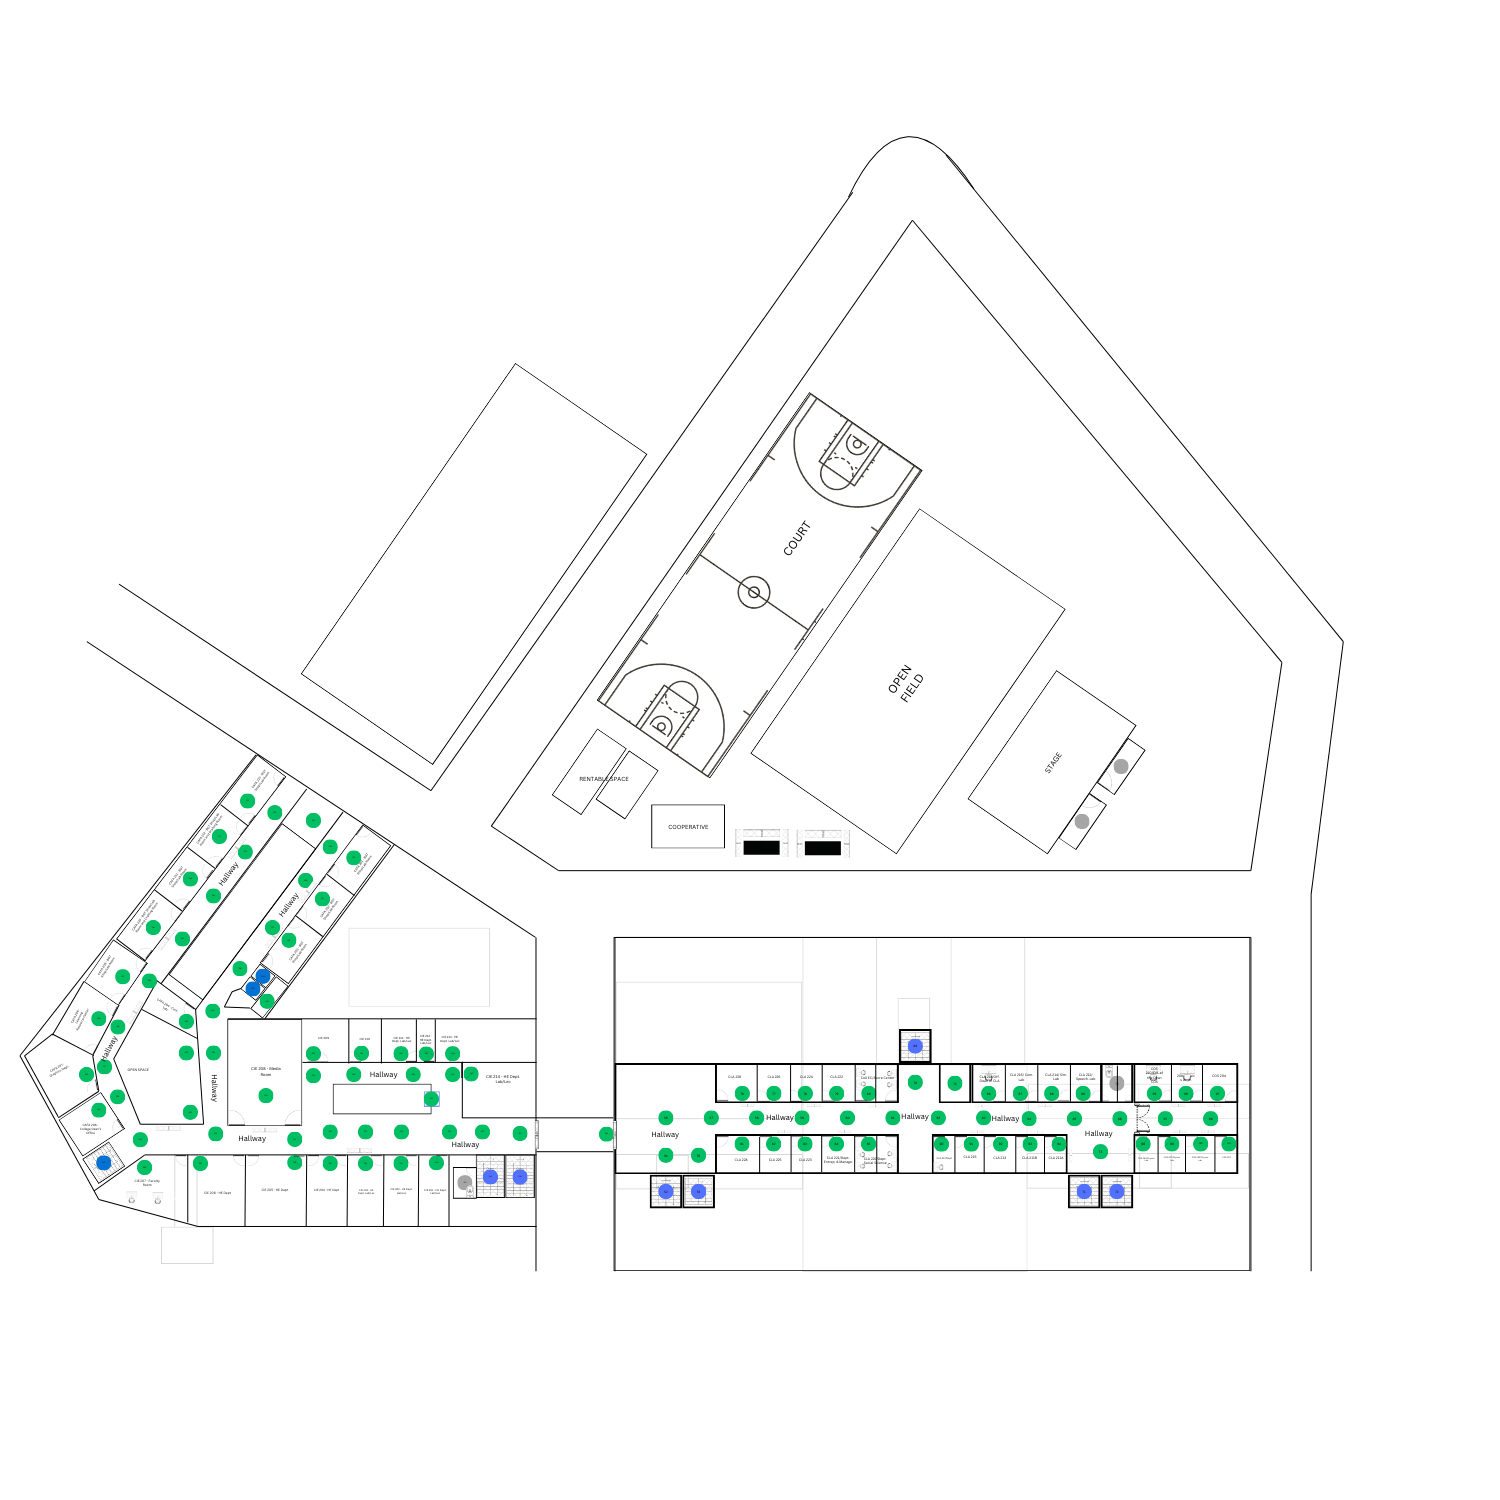
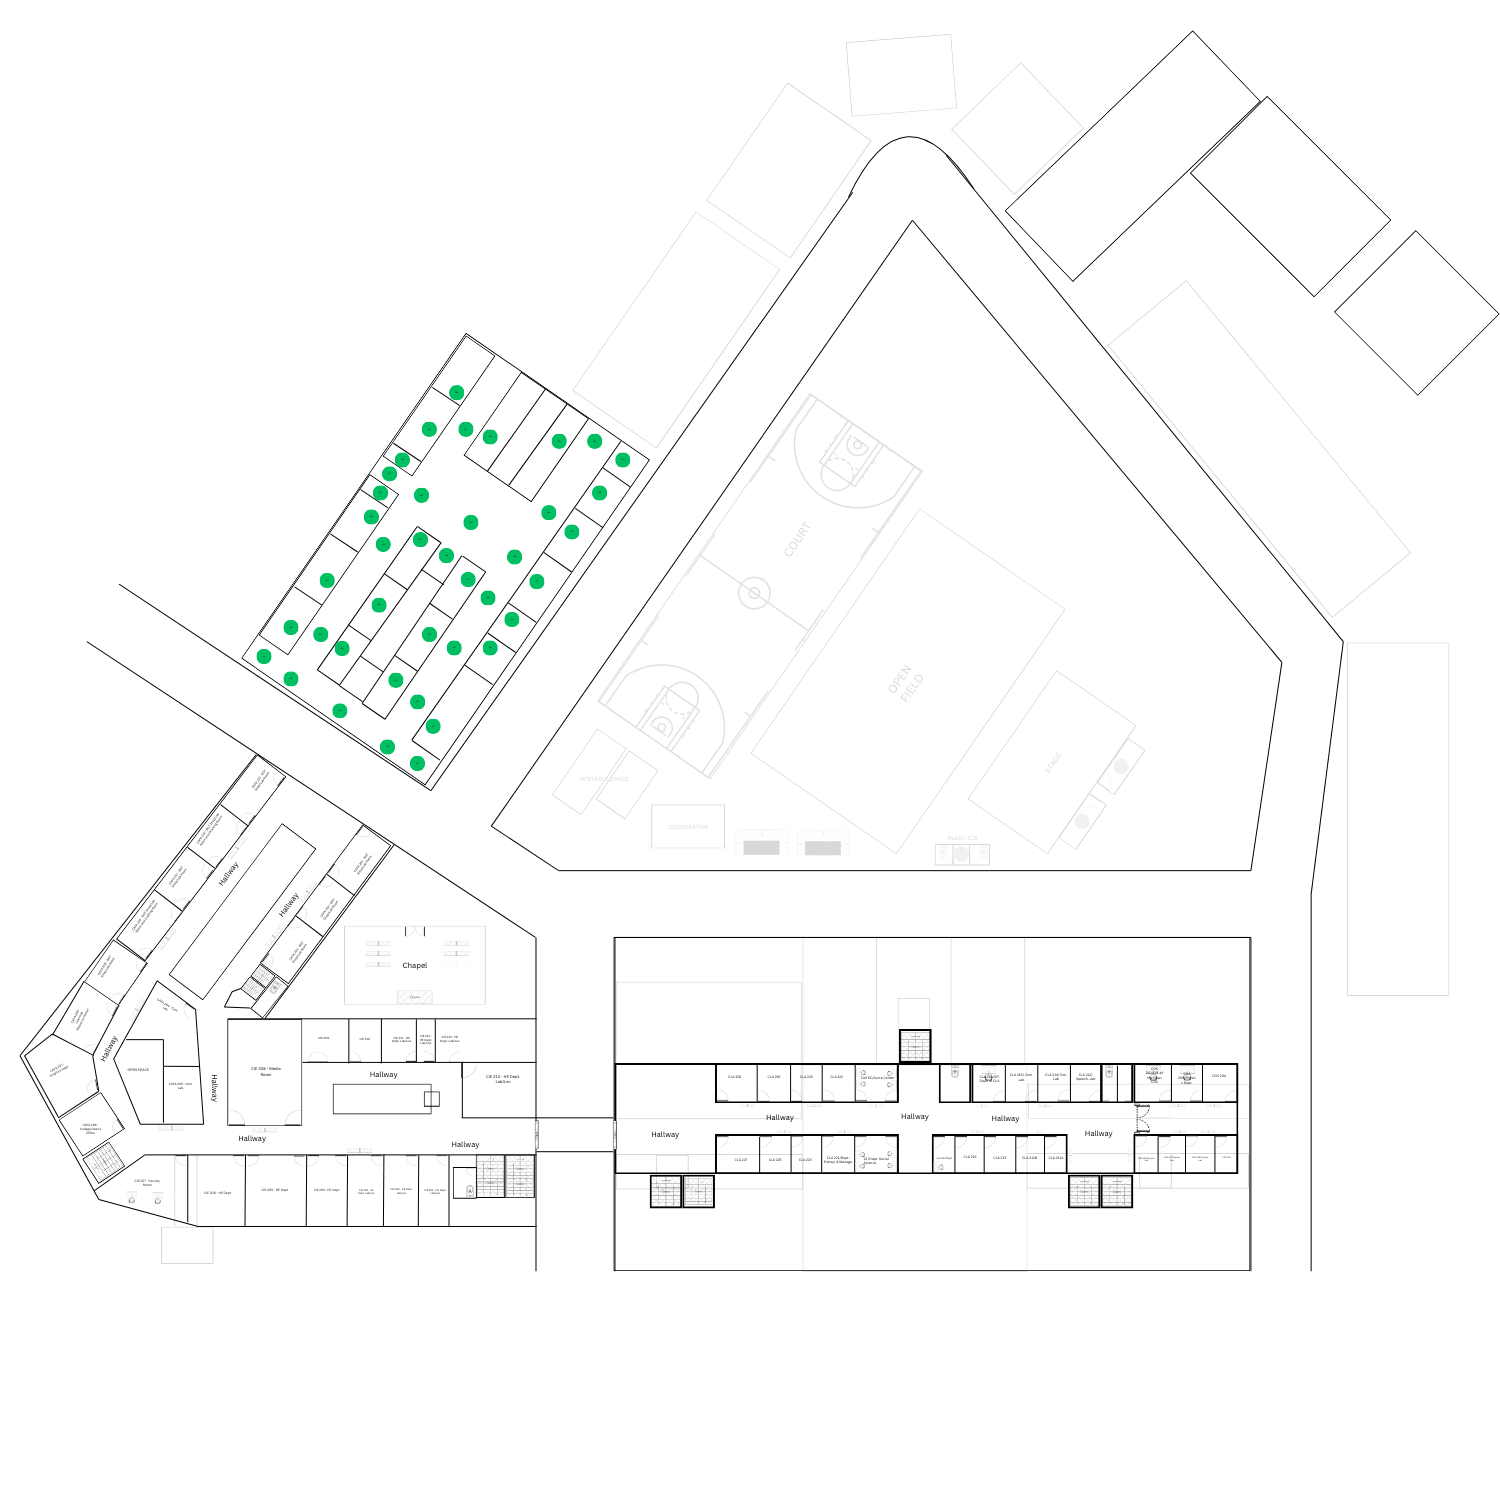
update done cit 1st floor plus ground floor all tup

diff --git a/frontend/components/NodeConnections.tsx b/frontend/components/NodeConnections.tsx
@@ -111,6 +111,7 @@ const nodeConnections: ConnectionsByFloor = {
       { start: { x: 895, y: 516, label: '36' }, end: { x: 895, y: 528, label: '50' }, active: false },
       { start: { x: 895, y: 516, label: '36' }, end: { x: 895, y: 504, label: '49' }, active: false },
       { start: { x: 895, y: 516, label: '36' }, end: { x: 910, y: 516, label: '37' }, active: false },
+      { start: { x: 910, y: 516, label: '37' }, end: { x: 926, y: 515, label: '378' }, active: false },
       { start: { x: 910, y: 516, label: '37' }, end: { x: 905, y: 504, label: '51' }, active: false },
       { start: { x: 579, y: 463, label: '179' }, end: { x: 584, y: 468, label: '184' }, active: false },
       { start: { x: 586, y: 454, label: '178' }, end: { x: 595, y: 456, label: '207' }, active: false },
@@ -170,7 +171,88 @@ const nodeConnections: ConnectionsByFloor = {
       { start: { x: 658, y: 517, label: '149' }, end: { x: 651, y: 517, label: '150' }, active: false },
       { start: { x: 669, y: 517, label: '148' }, end: { x: 663, y: 508, label: '187' }, active: false },
       { start: { x: 669, y: 517, label: '148' }, end: { x: 667, y: 531, label: '180' }, active: false },
-      { start: { x: 669, y: 517, label: '148' }, end: { x: 657, y: 517, label: '149' }, active: false },    
+      { start: { x: 669, y: 517, label: '148' }, end: { x: 657, y: 517, label: '149' }, active: false },
+
+      { start: { x: 698, y: 284, label: '414' }, end: { x: 686, y: 284, label: '431'  }, active: false },
+      { start: { x: 682, y: 308, label: '413' }, end: { x: 692, y: 308, label: '439'  }, active: false },
+      { start: { x: 682, y: 308, label: '413' }, end: { x: 688, y: 316, label: '438'  }, active: false },
+      { start: { x: 682, y: 308, label: '413' }, end: { x: 698, y: 284, label: '414'  }, active: false },
+      { start: { x: 639, y: 371, label: '412' }, end: { x: 649, y: 371, label: '434'  }, active: false },
+      { start: { x: 639, y: 371, label: '412' }, end: { x: 644, y: 379, label: '433'  }, active: false },
+      { start: { x: 639, y: 371, label: '412' }, end: { x: 630, y: 364, label: '429'  }, active: false },
+      { start: { x: 651, y: 353, label: '411' }, end: { x: 662, y: 353, label: '436'  }, active: false },
+      { start: { x: 651, y: 353, label: '411' }, end: { x: 656, y: 363, label: '435'  }, active: false },
+      { start: { x: 651, y: 353, label: '411' }, end: { x: 639, y: 371, label: '412'  }, active: false },
+      { start: { x: 662, y: 336, label: '410' }, end: { x: 672, y: 340, label: '437'  }, active: false },
+      { start: { x: 662, y: 336, label: '410' }, end: { x: 656, y: 330, label: '430'  }, active: false },
+      { start: { x: 662, y: 336, label: '410' }, end: { x: 651, y: 353, label: '411'  }, active: false },
+      { start: { x: 670, y: 323, label: '409' }, end: { x: 682, y: 308, label: '413'  }, active: false },
+      { start: { x: 670, y: 323, label: '409' }, end: { x: 662, y: 336, label: '410'  }, active: false },
+      { start: { x: 670, y: 323, label: '409' }, end: { x: 688, y: 337, label: '387'  }, active: false },
+      { start: { x: 656, y: 311, label: '408' }, end: { x: 649, y: 322, label: '428'  }, active: false },
+      { start: { x: 656, y: 311, label: '408' }, end: { x: 639, y: 319, label: '426'  }, active: false },
+      { start: { x: 656, y: 311, label: '408' }, end: { x: 670, y: 323, label: '409'  }, active: false },
+      { start: { x: 654, y: 280, label: '407' }, end: { x: 664, y: 280, label: '427'  }, active: false },
+      { start: { x: 654, y: 280, label: '407' }, end: { x: 652, y: 268, label: '423'  }, active: false },
+      { start: { x: 654, y: 280, label: '407' }, end: { x: 643, y: 280, label: '422'  }, active: false },
+      { start: { x: 640, y: 302, label: '406' }, end: { x: 630, y: 295, label: '440'  }, active: false },
+      { start: { x: 640, y: 302, label: '406' }, end: { x: 633, y: 290, label: '421'  }, active: false },
+      { start: { x: 640, y: 302, label: '406' }, end: { x: 627, y: 302, label: '420'  }, active: false },
+      { start: { x: 640, y: 302, label: '406' }, end: { x: 656, y: 311, label: '408'  }, active: false },
+      { start: { x: 640, y: 302, label: '406' }, end: { x: 654, y: 280, label: '407'  }, active: false },
+      { start: { x: 626, y: 319, label: '405' }, end: { x: 623, y: 310, label: '419'  }, active: false },
+      { start: { x: 626, y: 319, label: '405' }, end: { x: 617, y: 319, label: '418'  }, active: false },
+      { start: { x: 626, y: 319, label: '405' }, end: { x: 640, y: 302, label: '406'  }, active: false },
+      { start: { x: 606, y: 349, label: '404' }, end: { x: 615, y: 353, label: '425'  }, active: false },
+      { start: { x: 606, y: 349, label: '404' }, end: { x: 608, y: 330, label: '417'  }, active: false },
+      { start: { x: 606, y: 349, label: '404' }, end: { x: 595, y: 348, label: '416'  }, active: false },
+      { start: { x: 606, y: 349, label: '404' }, end: { x: 626, y: 319, label: '405'  }, active: false },
+      { start: { x: 596, y: 364, label: '403' }, end: { x: 605, y: 364, label: '424'  }, active: false },
+      { start: { x: 596, y: 364, label: '403' }, end: { x: 587, y: 356, label: '415'  }, active: false },
+      { start: { x: 596, y: 364, label: '403' }, end: { x: 606, y: 349, label: '404'  }, active: false },
+
+      { start: { x: 956, y: 255, label: '400' }, end: { x: 946, y:265, label: '399'  }, active: false },
+      { start: { x: 895, y: 215, label: '397' }, end: { x: 946, y:265, label: '399'  }, active: false },
+      { start: { x: 895, y: 215, label: '397' }, end: { x: 902, y:206, label: '398'  }, active: false },
+      { start: { x: 853, y: 250, label: '396' }, end: { x: 933, y:350, label: '402'  }, active: false },
+      { start: { x: 853, y: 250, label: '396' }, end: { x: 887, y:266, label: '401'  }, active: false },
+      { start: { x: 853, y: 250, label: '396' }, end: { x: 895, y:215, label: '397'  }, active: false },
+      { start: { x: 804, y: 198, label: '394' }, end: { x: 853, y:250, label: '396'  }, active: false },
+      { start: { x: 804, y: 198, label: '394' }, end: { x: 826, y:192, label: '395'  }, active: false },
+      { start: { x: 804, y: 198, label: '394' }, end: { x: 782, y:200, label: '393'  }, active: false },
+      { start: { x: 758, y: 255, label: '391' }, end: { x: 804, y:198, label: '394'  }, active: false },
+      { start: { x: 758, y: 255, label: '391' }, end: { x: 747, y:250, label: '392'  }, active: false },
+      { start: { x: 799, y: 366, label: '390' }, end: { x: 750, y:333, label: '389'  }, active: false },
+      { start: { x: 720, y: 313, label: '388' }, end: { x: 758, y:255, label: '391'  }, active: false },
+      { start: { x: 720, y: 313, label: '388' }, end: { x: 750, y:333, label: '389'  }, active: false },
+      { start: { x: 688, y: 337, label: '387' }, end: { x: 670, y:323, label: '409'  }, active: false },
+      { start: { x: 688, y: 337, label: '387' }, end: { x: 720, y:313, label: '388'  }, active: false },
+      { start: { x: 682, y: 367, label: '386' }, end: { x: 720, y:313, label: '388'  }, active: false },
+      { start: { x: 682, y: 367, label: '386' }, end: { x: 688, y:337, label: '387'  }, active: false },
+      { start: { x: 628, y: 387, label: '384' }, end: { x: 638, y:392, label: '432'  }, active: false },
+      { start: { x: 628, y: 387, label: '384' }, end: { x: 639, y:371, label: '412'  }, active: false },
+      { start: { x: 611, y: 397, label: '383' }, end: { x: 596, y:364, label: '403'  }, active: false },
+      { start: { x: 611, y: 397, label: '383' }, end: { x: 549, y:352, label: '385'  }, active: false },
+      { start: { x: 611, y: 397, label: '383' }, end: { x: 628, y:387, label: '384'  }, active: false },
+      { start: { x: 646, y: 415, label: '382' }, end: { x: 682, y:367, label: '386'  }, active: false },
+      { start: { x: 646, y: 415, label: '382' }, end: { x: 611, y:397, label: '383'  }, active: false },
+      { start: { x: 639, y: 444, label: '381' }, end: { x: 646, y:415, label: '382'  }, active: false },
+      { start: { x: 926, y: 515, label: '378' }, end: { x: 926, y:555, label: '379'  }, active: false },
+      { start: { x: 926, y: 440, label: '377' }, end: { x: 933, y:350, label: '402'  }, active: false },
+      { start: { x: 926, y: 440, label: '377' }, end: { x: 926, y:515, label: '378'  }, active: false },
+      { start: { x: 829, y: 440, label: '376' }, end: { x: 926, y:440, label: '377'  }, active: false },
+      { start: { x: 779, y: 440, label: '375' }, end: { x: 829, y:440, label: '376'  }, active: false },
+      { start: { x: 722, y: 440, label: '374' }, end: { x: 646, y:415, label: '382'  }, active: false },
+      { start: { x: 722, y: 440, label: '374' }, end: { x: 779, y:440, label: '375'  }, active: false },
+      { start: { x: 722, y: 455, label: '372' }, end: { x: 722, y:440, label: '374'  }, active: false },
+      { start: { x: 722, y: 455, label: '372' }, end: { x: 722, y:465, label: '373'  }, active: false },
+      { start: { x: 691, y: 455, label: '371' }, end: { x: 722, y:455, label: '372'  }, active: false },
+      { start: { x: 671, y: 470, label: '370' }, end: { x: 671, y: 480, label: '188'  }, active: false },   
+      { start: { x: 691, y: 470, label: '369' }, end: { x: 691, y:455, label: '371' }, active: false },
+      { start: { x: 691, y: 470, label: '369' }, end: { x: 691, y:455, label: '371' }, active: false },
+      { start: { x: 691, y: 516, label: '368' }, end: { x: 691, y:556, label: '380' }, active: false },
+      { start: { x: 691, y: 516, label: '368' }, end: { x: 691, y:470, label: '369' }, active: false },
+      
     ],
     2: [
       { start: { x: 580, y: 460, label: '238' }, end: { x: 587, y: 462, label: '244' }, active: false },

diff --git a/frontend/app/(tabs)/map.tsx b/frontend/app/(tabs)/map.tsx
@@ -122,8 +122,82 @@ export default function TabThreeScreen() {
                 {connections[floor] && connections[floor].map((conn, index) => (
                   <Connection key={index} start={conn.start} end={conn.end} active={conn.active} />
                 ))}
+                <Node x={630} y={295} label="440" />
+                <Node x={692} y={308} label="439" />
+                <Node x={688} y={316} label="438" />
+                <Node x={672} y={340} label="437" />
+                <Node x={662} y={353} label="436" />
+                <Node x={656} y={363} label="435" />
+                <Node x={649} y={371} label="434" />
+                <Node x={644} y={379} label="433" />
+                <Node x={638} y={392} label="432" />
+                <Node x={686} y={284} label="431" />
+                <Node x={656} y={330} label="430" />
+                <Node x={630} y={364} label="429" />
+                <Node x={649} y={322} label="428" />
+                <Node x={664} y={280} label="427" />
+                <Node x={639} y={319} label="426" />
+                <Node x={615} y={353} label="425" />
+                <Node x={605} y={364} label="424" />
+                <Node x={652} y={268} label="423" />
+                <Node x={643} y={280} label="422" />
+                <Node x={633} y={290} label="421" />
+                <Node x={627} y={302} label="420" />
+                <Node x={623} y={310} label="419" />
+                <Node x={617} y={319} label="418" />
+                <Node x={608} y={330} label="417" />
+                <Node x={595} y={348} label="416" />
+                <Node x={587} y={356} label="415" />
+                <Node x={698} y={284} label="414" />
+                <Node x={682} y={308} label="413" />
+                <Node x={639} y={371} label="412" />
+                <Node x={651} y={353} label="411" />
+                <Node x={662} y={336} label="410" />
+                <Node x={670} y={323} label="409" />
+                <Node x={656} y={311} label="408" />
+                <Node x={654} y={280} label="407" />
+                <Node x={640} y={302} label="406" />
+                <Node x={626} y={319} label="405" />
+                <Node x={606} y={349} label="404" />
+                <Node x={596} y={364} label="403" />
+                <Node x={933} y={350} label="402" />
+                <Node x={887} y={266} label="401" />
+                <Node x={956} y={255} label="400/coe" />
+                <Node x={946} y={265} label="399" />
+                <Node x={902} y={206} label="398/irtc" />
+                <Node x={895} y={215} label="397" />
+                <Node x={853} y={250} label="396" />
+                <Node x={826} y={192} label="395/PPET" />
+                <Node x={804} y={198} label="394" />
+                <Node x={782} y={200} label="393/motorpool" />
+                <Node x={747} y={250} label="392/old cit building" />
+                <Node x={758} y={255} label="391" />
+                <Node x={799} y={366} label="390/openfield" />
+                <Node x={750} y={333} label="389/court" />
+                <Node x={720} y={313} label="388" />
+                <Node x={688} y={337} label="387" />
+                <Node x={682} y={367} label="386" />
+                <Node x={549} y={352} label="385/gate4" />
+                <Node x={628} y={387} label="384" />
+                <Node x={611} y={397} label="383" />
+                <Node x={646} y={415} label="382" />
+                <Node x={639} y={444} label="381/chapel" />
+                <Node x={691} y={556} label="380/gate3" />
+                <Node x={926} y={555} label="379/gate1" />
+                <Node x={926} y={515} label="378" />
+                <Node x={926} y={440} label="377" />
+                <Node x={829} y={440} label="376" />                
+                <Node x={779} y={440} label="375" />
+                <Node x={722} y={440} label="374" />
+                <Node x={722} y={465} label="373/liblary" />
+                <Node x={722} y={455} label="372" />
+                <Node x={691} y={455} label="371" />
+                <Node x={671} y={470} label="370" />
+                <Node x={691} y={470} label="369" />
+                <Node x={691} y={470} label="369" />
+                <Node x={691} y={516} label="368" />
 
-                  {/*  */}
+                <Node x={671} y={480} label="188" />
 
               </Animated.View>
             </GestureDetector>
